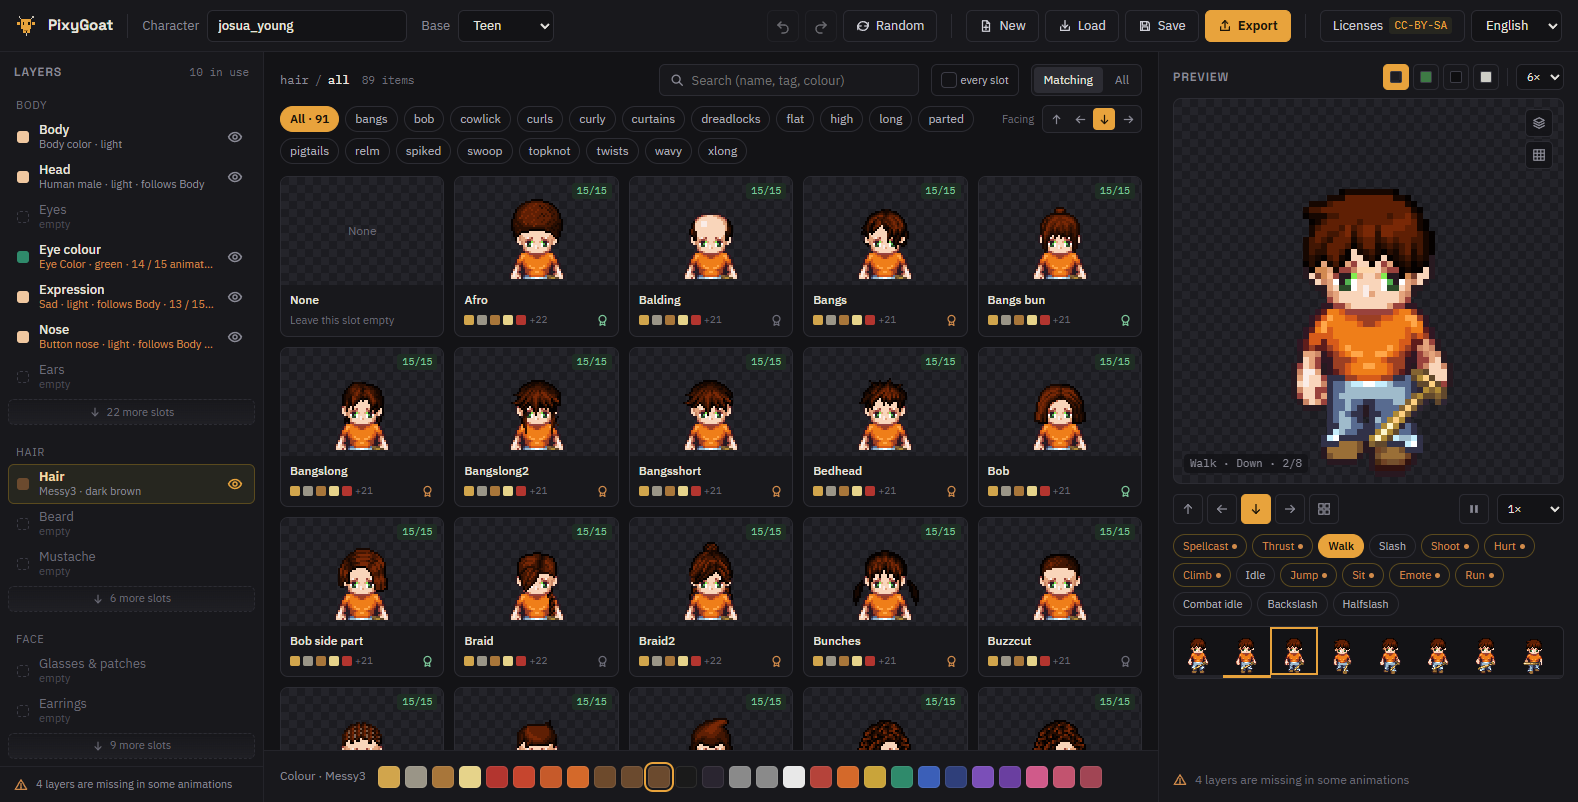
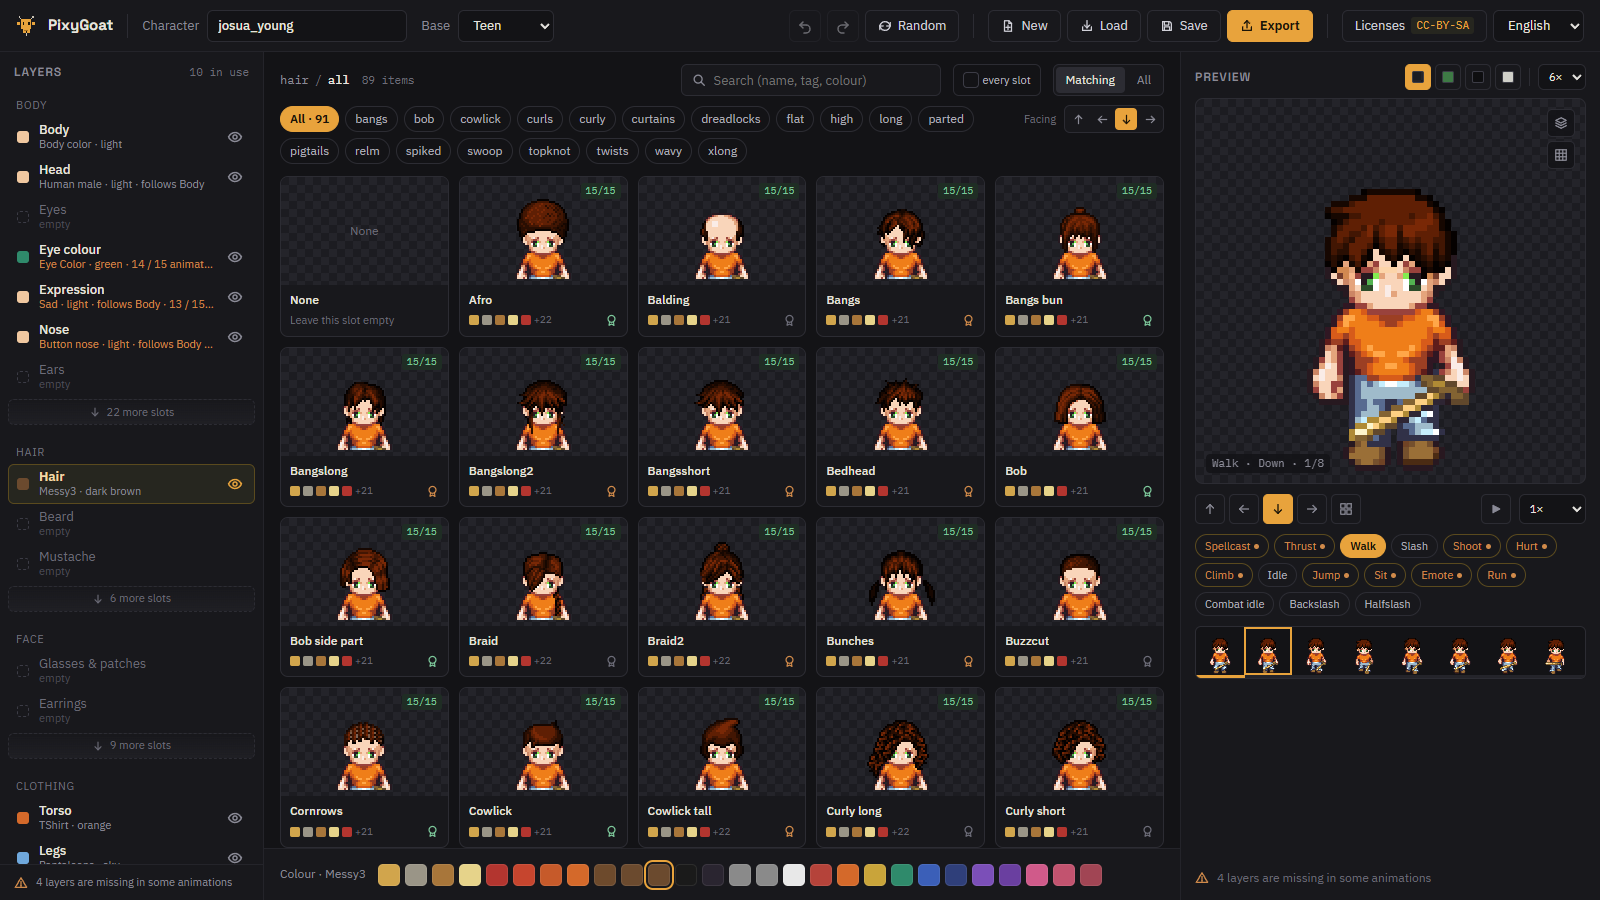
Walk through installing and using the app
The quick start assumed you already knew what to do with the spritesheet
folder once you had it. Installing is five numbered steps now, from
checking the Node version to opening the browser, and the three failures
worth naming sit in a details block underneath.

Added a section on using the tool - pick a character, build it, read what
the licences oblige you to do, export - with a screenshot of each taken
from the running app. The export shot points at a neutral target folder
rather than the path on the machine it was taken on.

diff --git a/README.md b/README.md
@@ -16,7 +16,7 @@ Runs on your own machine, in your own browser.
 
 </div>
 
-![The editor: layer stack, catalogue and live preview](docs/images/editor.png)
+![The start screen](docs/images/start.png)
 
 ## What it does
 
@@ -33,13 +33,36 @@ Runs on your own machine, in your own browser.
   paper-doll parts with a manifest so an engine can swap hair and weapons at
   runtime without a clip per garment.
 
-## Quick start
+## Install
 
-You need **Node.js 22 or newer** and the LPC spritesheets. The sprites are not
-part of this repository and never will be: they were drawn by the LPC community
-and carry their own licences, so you fetch them from the source.
+Five steps, about ten minutes, most of it spent downloading sprites. Everything
+stays on your machine; nothing is uploaded anywhere.
 
-### 1. Get the sprites
+### 1. Install Node.js 22 or newer
+
+```bash
+node --version
+```
+
+If that prints anything below `v22`, install it from
+[nodejs.org](https://nodejs.org/) (the LTS build will do) and open a new
+terminal afterwards.
+
+### 2. Get PixyGoat
+
+```bash
+git clone https://github.com/FosselDev/pixygoat.git
+cd pixygoat
+```
+
+Without git: download the repository as a ZIP from GitHub, unpack it, and `cd`
+into the unpacked folder.
+
+### 3. Get the LPC sprites
+
+The sprites are not part of this repository and never will be: they were drawn
+by the LPC community and carry their own licences, so you fetch them from the
+source.
 
 PixyGoat reads the `spritesheets/` folder of the
 [Universal LPC Spritesheet Character Generator](https://github.com/LiberatedPixelCup/Universal-LPC-Spritesheet-Character-Generator),
@@ -56,6 +79,7 @@ git clone --filter=blob:none --no-checkout --sparse \
 cd lpc
 git sparse-checkout set spritesheets
 git checkout e7fa0aee616
+cd ..
 ```
 
 Without git, download the
@@ -63,22 +87,34 @@ Without git, download the
 and keep its `spritesheets/` folder — that route pulls the whole repository, not
 just the sprites.
 
-Then either move the folder next to this README, or leave it where it is and
-point PixyGoat at it with `--sprites <path>` or `PIXYGOAT_SPRITES`.
+Then either move that `spritesheets/` folder next to this README, or leave it
+where it is and point PixyGoat at it in the next step.
 
-### 2. Run
+### 4. Install the dependencies and start
 
 ```bash
 npm install
-npm start                              # sprites in ./spritesheets
-npm start -- --sprites ../lpc/spritesheets   # or wherever you put them
+npm start
 ```
 
-Then open <http://127.0.0.1:4600>. The first start scans the spritesheet folder
-— about a minute for 300 000 files — and caches the catalogue in `.cache/`.
-Later starts take a few seconds.
+`npm start` builds the app and runs the local server. If the sprites live
+somewhere else, say so once — the flag works the same on every start:
 
-![The start screen](docs/images/start.png)
+```bash
+npm start -- --sprites ../lpc/spritesheets
+```
+
+The first start scans the spritesheet folder — about a minute for 300 000 files
+— and caches the catalogue in `.cache/`. Later starts take a few seconds. If
+you ever swap the sprite folder for another snapshot, start once with
+`npm start -- --rebuild`.
+
+### 5. Open it
+
+<http://127.0.0.1:4600>
+
+The terminal keeps the server running; `Ctrl+C` stops it. Characters you save
+land in `characters/`, exports in `exports/`.
 
 <details>
 <summary>Flags and environment variables</summary>
@@ -108,13 +144,84 @@ docker compose up --build
 
 </details>
 
-## Exports
+<details>
+<summary>It does not start</summary>
+
+- **`EADDRINUSE ... 4600`** — something else already holds the port, most likely
+  a PixyGoat you forgot to stop. Close it, or start with `--port 4601`.
+- **`Sprites directory not found: ...`** — the path is wrong. `--sprites` wants
+  the `spritesheets/` folder itself, not its parent, and it is printed in full
+  so you can compare it with where the folder really is.
+- **Parts are missing or the catalogue looks wrong** — you are probably on
+  another snapshot than `e7fa0aee616`. Check out that commit and start once with
+  `--rebuild`.
+
+</details>
+
+## Using it
+
+### 1. Pick a character
+
+The start screen scrolls down to your work: a new character from a plain body,
+the unsaved draft you left behind, and everything in `characters/`. A
+`.character.json` dropped anywhere on the window opens too.
+
+![Recently edited characters on the start screen](docs/images/characters.png)
+
+### 2. Build it in the editor
+
+![The editor: layer stack, catalogue and live preview](docs/images/editor.png)
+
+Three columns, and you work from left to right:
+
+- **Layers, left.** One row per slot — body, head, hair, torso, legs, and the
+  rest behind *more slots*, 106 of them in all. Click a row to browse that
+  slot; the eye hides a layer without removing it, and a row says so when its
+  part is missing from some animations.
+- **Catalogue, middle.** Every part for the selected slot, previewed on your
+  character. Search by name, tag or colour, narrow it with the tag chips, and
+  switch *Matching* to *All* to see parts your body type cannot wear. The row
+  at the bottom recolours the selected part; `15/15` on a tile means it is
+  drawn for all fifteen animations.
+- **Preview, right.** The character animating. Pick the facing, the animation
+  and the zoom, play or step through the frame strip, and use the buttons above
+  for background, all four directions at once, and an exploded layer view.
+- **Top bar.** Name and body type, undo and redo, *Random* for a whole
+  character at once, and New / Load / Save / Export.
+
+### 3. Check what you may do with it
+
+![The licence panel](docs/images/licenses.png)
+
+*Licenses* reads the character back to you: the strictest licence on it, what
+that obliges you to do, and which licence every single part contributes. The
+filter at the bottom of the panel greys out everything in the catalogue whose
+terms you do not accept — set it once and build without watching the seals.
+
+### 4. Export
+
+![The export dialog](docs/images/export.png)
 
 | Target | What you get |
 |---|---|
 | **Unity · paper-doll parts** | One PNG per slot and animation, plus `manifest.json` with the grid, frame cycle, frame time and draw order of every page. An importer builds pages, parts, clips and a prefab from it without knowing what LPC is. |
 | **Flat spritesheets** | Every layer composited. One sheet per animation, one universal sheet, or single frames — for prototypes, Tiled, Godot, or any engine without a paper doll. |
 | **Character file** | The selection, no pixels. For loading, sharing and versioning. |
+
+Pick the animations you want, then write the files into a folder or download
+them as a ZIP. Both sheet exports carry `character.json`, `CREDITS.txt` and
+`CREDITS.csv` along with the pixels — the credits are written every time, not
+on request.
+
+### Keyboard
+
+| Key | In the editor |
+|---|---|
+| `Space` | play / pause |
+| `←` `→` `↑` `↓` | facing |
+| `1`–`8` | zoom |
+| `Ctrl+Z` / `Ctrl+Y` | undo / redo |
+| `Ctrl+S` / `Ctrl+O` / `Ctrl+E` | save / load / export |
 
 ## Development
 
